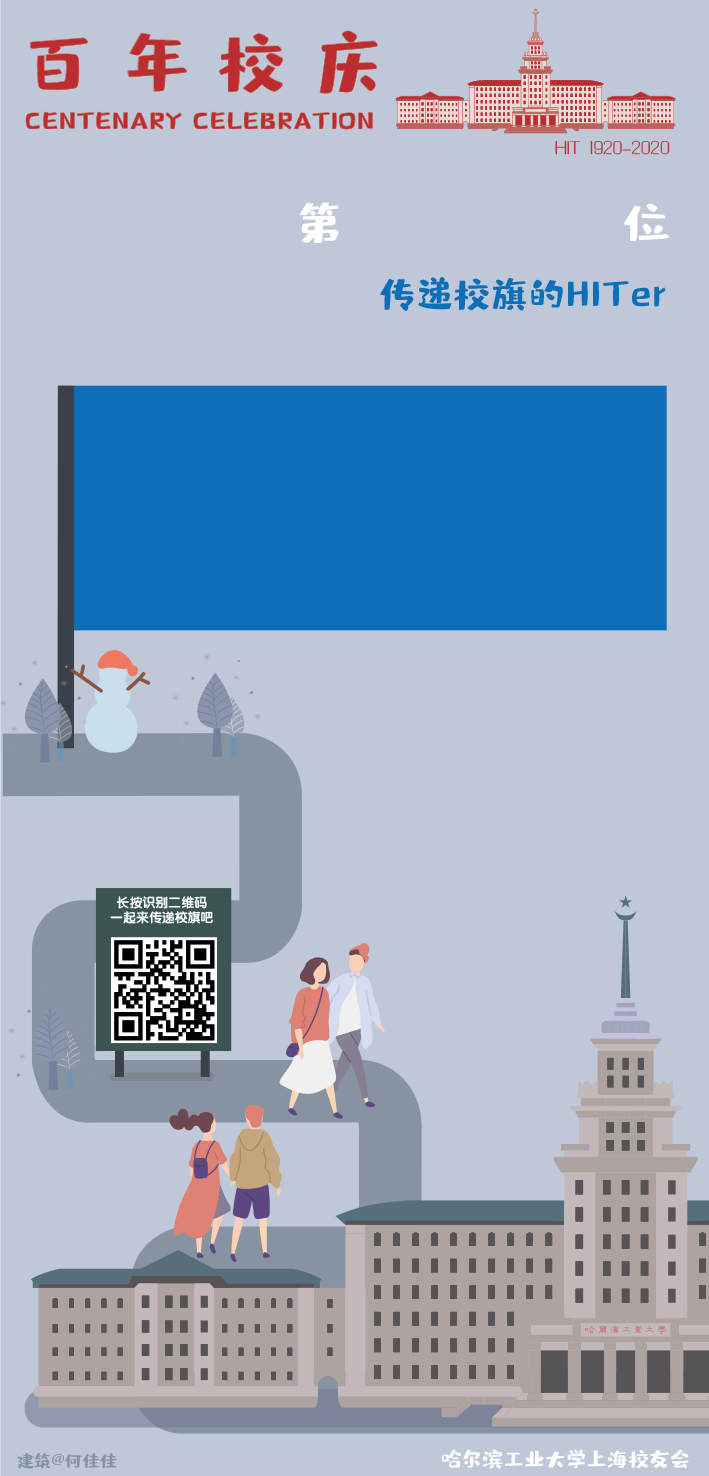
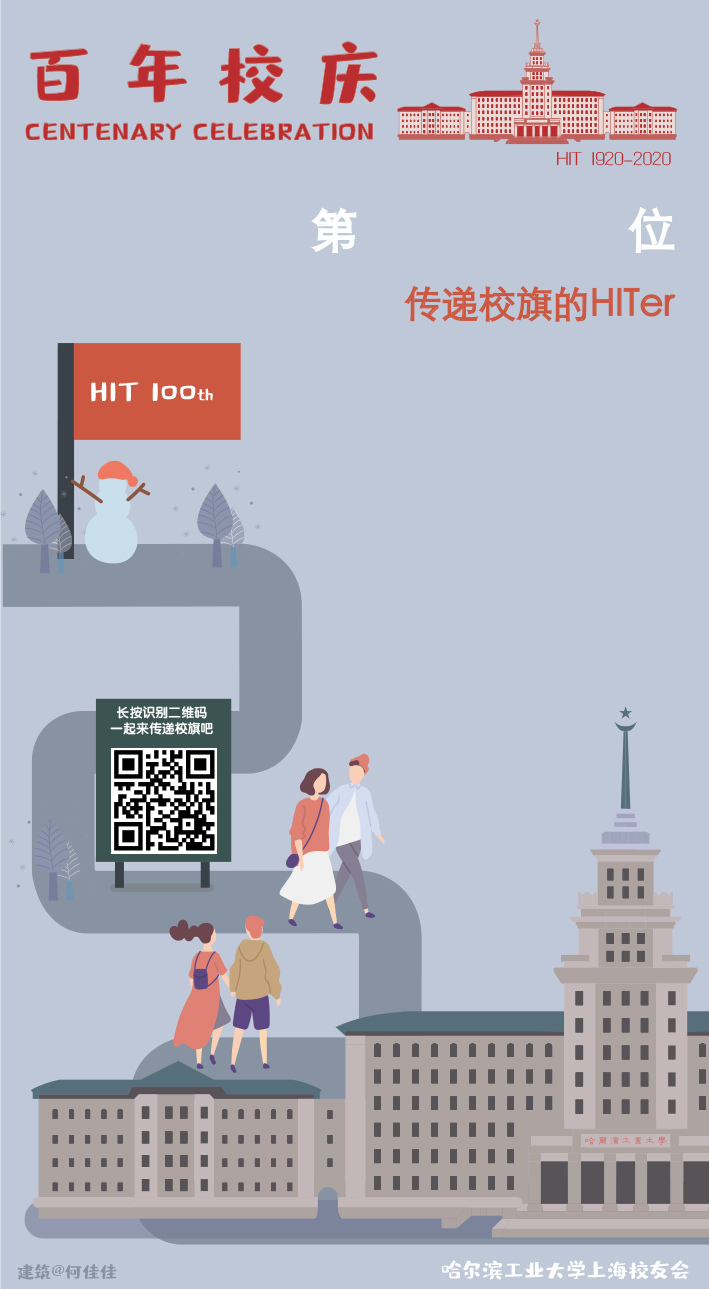
张家乐: 按设计调整布局

diff --git a/js/main.js b/js/main.js
@@ -154,17 +154,30 @@ function getRandom(rank, name, head) {
             2 * Math.PI
         );
         headCtx.closePath();
+        headCtx.fillStyle = "#fff";
+        headCtx.fill();
+
+        headCtx.beginPath();
+        headCtx.arc(
+            head.width / 2,
+            head.height / 2,
+            (head.width / 2) * 0.92,
+            0,
+            2 * Math.PI
+        );
+        headCtx.closePath();
         headCtx.fillStyle = headPattern;
         headCtx.fill();
 
-        ctx.drawImage(headCanvas, 60, 160, 180, 180);
+        ctx.drawImage(headCanvas, 60, 160, 160, 160);
 
-        ctx.fillStyle = "#0d6fb8";
-        ctx.font = "italic bold 72px serif";
+        ctx.fillStyle = "#cc5841";
+        ctx.font =
+            "100px HelveticaNeue,Helvetica,'Heiti SC','Droid Sans',Droidsansfallback,'华文细黑'";
         rank = String(rank);
 
-        var rankCenter = 480,
-            rankMiddle = 220;
+        var rankCenter = 500,
+            rankMiddle = 230;
         var textMetrics = ctx.measureText(rank);
 
         ctx.fillText(
@@ -173,14 +186,13 @@ function getRandom(rank, name, head) {
             rankMiddle + 28
         );
 
-        ctx.fillStyle = "#fff";
-
-        var textRect = { x: 80, y: 385, h: 244, w: 586 };
-        var textFontSize = 32,
+        var textRect = { x: 310, y: 340, w: 375, h: 200 };
+        var textFontSize = 28,
             textCursorX = textRect.x,
             textCursorY = textRect.y + textFontSize;
 
-        ctx.font = "italic " + textFontSize + "px serif";
+        ctx.fillStyle = "#2d5578";
+        ctx.font = "" + textFontSize * 1.2 + "px HelveticaNeue,Helvetica,'Heiti SC','Droid Sans',Droidsansfallback,'华文细黑'";
 
         String(name || "")
             .split("")
@@ -195,9 +207,9 @@ function getRandom(rank, name, head) {
                 textCursorX = textCursorX + textMetrics.width;
             });
 
-        textCursorX = textCursorX + textFontSize;
+        textCursorX = textCursorX + textFontSize * 0.5;
 
-        ctx.font = "" + textFontSize + "px serif";
+        ctx.font = "" + textFontSize + "px HelveticaNeue,Helvetica,'Heiti SC','Droid Sans',Droidsansfallback,'华文细黑'";
         String(text || "")
             .split("")
             .forEach(char => {

diff --git a/flag.html b/flag.html
@@ -32,7 +32,7 @@
 
         <script src="http://res.wx.qq.com/open/js/jweixin-1.4.0.js"></script>
         <script src="js/jquery-2.2.4.min.js"></script>
-        <script src="js/main.js"></script>
+        <script src="js/main.js?v=1"></script>
         <script>
             window.onload = function() {
                 weixinInit();
